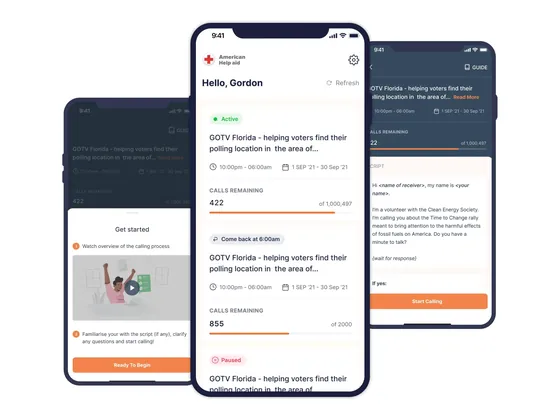
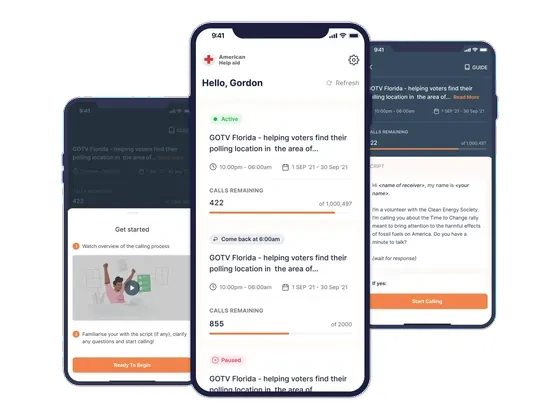
CallHub image: transparent background so the page colour shows through
The white around the phones is now transparent (the soft shadows stay as
semi-transparent shading; the phone screens stay white), and the frame's
white background is removed.

diff --git a/style.css b/style.css
@@ -289,8 +289,9 @@ a.link-ext:focus-visible .link-ext__arrow {
   object-position: 58% 42%;
 }
 
+/* Phones on a transparent background: let the page colour show through. */
 .media-frame--callhub {
-  background: #fff;
+  background: transparent;
 }
 
 /* Transparent PNG laptop: show it whole on a light grey. */
